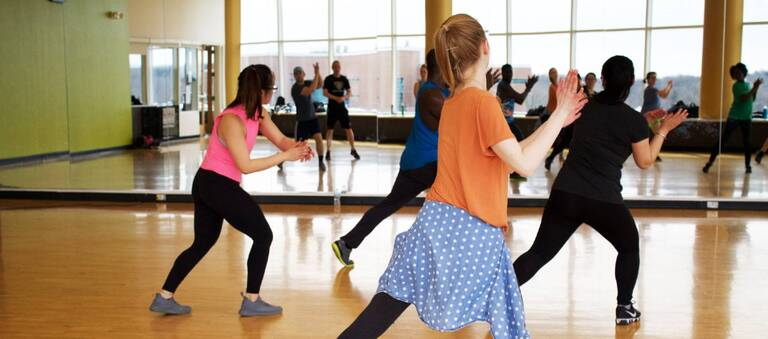
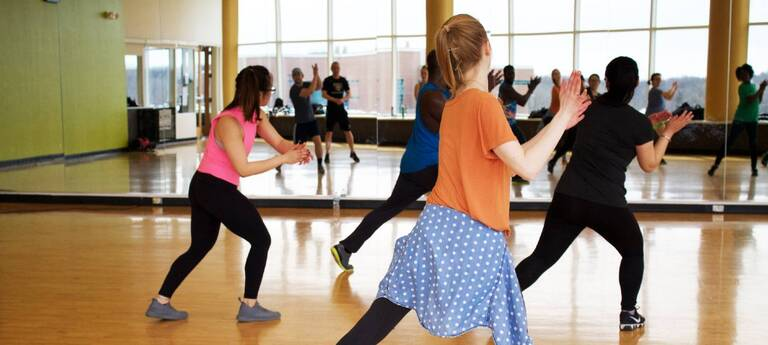
first-screen slider adaptive image
using picture and less images

diff --git a/src/html/first-screen.html b/src/html/first-screen.html
@@ -9,31 +9,58 @@
         <div class="first-screen__slider">
             <div class="swiper-wrapper">
                 <div class="swiper-slide">
-                    <img srcset="@img/first-screen/01/01-1440.jpg 1440w, @img/first-screen/01/01-1368.jpg 1368w, @img/first-screen/01/01-1280.jpg 1280w, @img/first-screen/01/01-1024.jpg 1024w, @img/first-screen/01/01-768.jpg 768w, @img/first-screen/01/01-440.jpg 440w, @img/first-screen/01/01-375.jpg 375w, @img/first-screen/01/01-320.jpg 320w" sizes="100vw" alt="">
+                    <picture>
+                        <source srcset="@img/first-screen/01/01-1440.jpg 1440w" media="(min-width:768.02px)" sizes="100vw">
+                        <img srcset="@img/first-screen/01/01-768.jpg 768w, @img/first-screen/01/01-375.jpg 375w" sizes="100vw" src="@img/first-screen/01/01-1440.jpg" alt="">
+                    </picture>
                 </div>
                 <div class="swiper-slide">
-                    <img srcset="@img/first-screen/02/02-1440.jpg 1440w, @img/first-screen/02/02-1368.jpg 1368w, @img/first-screen/02/02-1280.jpg 1280w, @img/first-screen/02/02-1024.jpg 1024w, @img/first-screen/02/02-768.jpg 768w, @img/first-screen/02/02-440.jpg 440w, @img/first-screen/02/02-375.jpg 375w, @img/first-screen/02/02-320.jpg 320w" sizes="100vw" alt="">
+                    <picture>
+                        <source srcset="@img/first-screen/02/02-1440.jpg 1440w" media="(min-width:768.02px)" sizes="100vw">
+                        <img srcset="@img/first-screen/02/02-768.jpg 768w, @img/first-screen/02/02-375.jpg 375w" sizes="100vw" src="@img/first-screen/02/02-1440.jpg" alt="">
+                    </picture>
                 </div>
                 <div class="swiper-slide">
-                    <img srcset="@img/first-screen/03/03-1440.jpg 1440w, @img/first-screen/03/03-1368.jpg 1368w, @img/first-screen/03/03-1280.jpg 1280w, @img/first-screen/03/03-1024.jpg 1024w, @img/first-screen/03/03-768.jpg 768w, @img/first-screen/03/03-440.jpg 440w, @img/first-screen/03/03-375.jpg 375w, @img/first-screen/03/03-320.jpg 320w" sizes="100vw" alt="">
+                    <picture>
+                        <source srcset="@img/first-screen/03/03-1440.jpg 1440w" media="(min-width:768.02px)" sizes="100vw">
+                        <img srcset="@img/first-screen/03/03-768.jpg 768w, @img/first-screen/03/03-375.jpg 375w" sizes="100vw" src="@img/first-screen/03/03-1440.jpg" alt="">
+                    </picture>
                 </div>
                 <div class="swiper-slide">
-                    <img srcset="@img/first-screen/04/04-1440.jpg 1440w, @img/first-screen/04/04-1368.jpg 1368w, @img/first-screen/04/04-1280.jpg 1280w, @img/first-screen/04/04-1024.jpg 1024w, @img/first-screen/04/04-768.jpg 768w, @img/first-screen/04/04-440.jpg 440w, @img/first-screen/04/04-375.jpg 375w, @img/first-screen/04/04-320.jpg 320w" sizes="100vw" alt="">
+                    <picture>
+                        <source srcset="@img/first-screen/04/04-1440.jpg 1440w" media="(min-width:768.02px)" sizes="100vw">
+                        <img srcset="@img/first-screen/04/04-768.jpg 768w, @img/first-screen/04/04-375.jpg 375w" sizes="100vw" src="@img/first-screen/04/04-1440.jpg" alt="">
+                    </picture>
                 </div>
                 <div class="swiper-slide">
-                    <img srcset="@img/first-screen/05/05-1440.jpg 1440w, @img/first-screen/05/05-1368.jpg 1368w, @img/first-screen/05/05-1280.jpg 1280w, @img/first-screen/05/05-1024.jpg 1024w, @img/first-screen/05/05-768.jpg 768w, @img/first-screen/05/05-440.jpg 440w, @img/first-screen/05/05-375.jpg 375w, @img/first-screen/05/05-320.jpg 320w" sizes="100vw" alt="">
+                    <picture>
+                        <source srcset="@img/first-screen/05/05-1440.jpg 1440w" media="(min-width:768.02px)" sizes="100vw">
+                        <img srcset="@img/first-screen/05/05-768.jpg 768w, @img/first-screen/05/05-375.jpg 375w" sizes="100vw" src="@img/first-screen/05/05-1440.jpg" alt="">
+                    </picture>
                 </div>
                 <div class="swiper-slide">
-                    <img srcset="@img/first-screen/06/06-1440.jpg 1440w, @img/first-screen/06/06-1368.jpg 1368w, @img/first-screen/06/06-1280.jpg 1280w, @img/first-screen/06/06-1024.jpg 1024w, @img/first-screen/06/06-768.jpg 768w, @img/first-screen/06/06-440.jpg 440w, @img/first-screen/06/06-375.jpg 375w, @img/first-screen/06/06-320.jpg 320w" sizes="100vw" alt="">
+                    <picture>
+                        <source srcset="@img/first-screen/06/06-1440.jpg 1440w" media="(min-width:768.02px)" sizes="100vw">
+                        <img srcset="@img/first-screen/06/06-768.jpg 768w, @img/first-screen/06/06-375.jpg 375w" sizes="100vw" src="@img/first-screen/06/06-1440.jpg" alt="">
+                    </picture>
                 </div>
                 <div class="swiper-slide">
-                    <img srcset="@img/first-screen/07/07-1440.jpg 1440w, @img/first-screen/07/07-1368.jpg 1368w, @img/first-screen/07/07-1280.jpg 1280w, @img/first-screen/07/07-1024.jpg 1024w, @img/first-screen/07/07-768.jpg 768w, @img/first-screen/07/07-440.jpg 440w, @img/first-screen/07/07-375.jpg 375w, @img/first-screen/07/07-320.jpg 320w" sizes="100vw" alt="">
+                    <picture>
+                        <source srcset="@img/first-screen/07/07-1440.jpg 1440w" media="(min-width:768.02px)" sizes="100vw">
+                        <img srcset="@img/first-screen/07/07-768.jpg 768w, @img/first-screen/07/07-375.jpg 375w" sizes="100vw" src="@img/first-screen/07/07-1440.jpg" alt="">
+                    </picture>
                 </div>
                 <div class="swiper-slide">
-                    <img srcset="@img/first-screen/08/08-1440.jpg 1440w, @img/first-screen/08/08-1368.jpg 1368w, @img/first-screen/08/08-1280.jpg 1280w, @img/first-screen/08/08-1024.jpg 1024w, @img/first-screen/08/08-768.jpg 768w, @img/first-screen/08/08-440.jpg 440w, @img/first-screen/08/08-375.jpg 375w, @img/first-screen/08/08-320.jpg 320w" sizes="100vw" alt="">
+                    <picture>
+                        <source srcset="@img/first-screen/08/08-1440.jpg 1440w" media="(min-width:768.02px)" sizes="100vw">
+                        <img srcset="@img/first-screen/08/08-768.jpg 768w, @img/first-screen/08/08-375.jpg 375w" sizes="100vw" src="@img/first-screen/08/08-1440.jpg" alt="">
+                    </picture>
                 </div>
                 <div class="swiper-slide">
-                    <img srcset="@img/first-screen/09/09-1440.jpg 1440w, @img/first-screen/09/09-1368.jpg 1368w, @img/first-screen/09/09-1280.jpg 1280w, @img/first-screen/09/09-1024.jpg 1024w, @img/first-screen/09/09-768.jpg 768w, @img/first-screen/09/09-440.jpg 440w, @img/first-screen/09/09-375.jpg 375w, @img/first-screen/09/09-320.jpg 320w" sizes="100vw" alt="">
+                    <picture>
+                        <source srcset="@img/first-screen/09/09-1440.jpg 1440w" media="(min-width:768.02px)" sizes="100vw">
+                        <img srcset="@img/first-screen/09/09-768.jpg 768w, @img/first-screen/09/09-375.jpg 375w" sizes="100vw" src="@img/first-screen/09/09-1440.jpg" alt="">
+                    </picture>
                 </div>
             </div>
 
